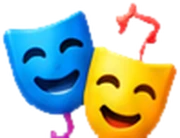
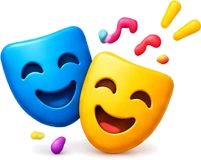
Aperçu (non publié) : icônes en haute définition (moments, mercredi, pause du midi)
Claude-Session: https://claude.ai/code/session_01SjcCAedYTceXdKHCvfHWU6

diff --git a/familles.html b/familles.html
@@ -5,12 +5,12 @@
 <meta name="viewport" content="width=device-width, initial-scale=1, viewport-fit=cover">
 <title>Espace familles · Ma parole compte !</title>
 <meta name="theme-color" content="#EAF2F4">
-<link rel="manifest" href="manifest.json?v=20261111r">
+<link rel="manifest" href="manifest.json?v=20261111s">
 <link rel="icon" href="favicon-v2.png" type="image/png">
 <link rel="apple-touch-icon" href="apple-touch-icon-v2.png">
 <link rel="preconnect" href="https://fonts.googleapis.com">
 <link rel="stylesheet" href="https://fonts.googleapis.com/css2?family=Baloo+2:wght@500;700;800&family=Andika:wght@400;700&display=swap">
-<link rel="stylesheet" href="style.css?v=20261111r0261111m">
+<link rel="stylesheet" href="style.css?v=20261111s0261111m">
 </head>
 <body class="fam">
 <div class="wrap">
@@ -22,9 +22,9 @@
   <p class="muted fam-foot">Vos réponses sont anonymes, sauf si vous laissez vos coordonnées pour avoir une réponse. Elles sont lues uniquement par l'équipe d'animation, servent à améliorer l'accueil des enfants, et sont effacées au bout de 13 mois (vos coordonnées au bout de 3 mois). Pour toute question, ou pour faire effacer une réponse, adressez-vous à la direction du centre.</p>
 </div>
 <div class="toast" id="toast" hidden></div>
-<script src="config.js?v=20261111r0261111m"></script>
-<script src="familles-data.js?v=20261111r0261111m"></script>
-<script src="vendor/supabase.js?v=20261111r0261111m"></script>
-<script src="familles.js?v=20261111r0261111m"></script>
+<script src="config.js?v=20261111s0261111m"></script>
+<script src="familles-data.js?v=20261111s0261111m"></script>
+<script src="vendor/supabase.js?v=20261111s0261111m"></script>
+<script src="familles.js?v=20261111s0261111m"></script>
 </body>
 </html>

diff --git a/index.html b/index.html
@@ -5,13 +5,13 @@
 <meta name="viewport" content="width=device-width, initial-scale=1, viewport-fit=cover">
 <title>Ma parole compte !</title>
 <meta name="theme-color" content="#EAF2F4">
-<link rel="manifest" href="manifest.json?v=20261111r">
+<link rel="manifest" href="manifest.json?v=20261111s">
 <link rel="icon" href="favicon-v2.png" type="image/png">
 <link rel="apple-touch-icon" href="apple-touch-icon-v2.png">
 <meta name="apple-mobile-web-app-capable" content="yes">
 <link rel="preconnect" href="https://fonts.googleapis.com">
 <link rel="stylesheet" href="https://fonts.googleapis.com/css2?family=Baloo+2:wght@500;700;800&family=Andika:wght@400;700&display=swap">
-<link rel="stylesheet" href="style.css?v=20261111r0261111m">
+<link rel="stylesheet" href="style.css?v=20261111s0261111m">
 </head>
 <body>
 <div class="wrap">
@@ -26,10 +26,10 @@
   <main id="app" aria-live="polite"></main>
 </div>
 <div class="toast" id="toast" hidden></div>
-<script src="config.js?v=20261111r0261111m"></script>
-<script src="familles-data.js?v=20261111r0261111m"></script>
-<script src="vendor/supabase.js?v=20261111r0261111m"></script>
-<script src="vendor/qrcode.js?v=20261111r0261111m"></script>
-<script src="app.js?v=20261111r0261111m"></script>
+<script src="config.js?v=20261111s0261111m"></script>
+<script src="familles-data.js?v=20261111s0261111m"></script>
+<script src="vendor/supabase.js?v=20261111s0261111m"></script>
+<script src="vendor/qrcode.js?v=20261111s0261111m"></script>
+<script src="app.js?v=20261111s0261111m"></script>
 </body>
 </html>

diff --git a/app.js b/app.js
@@ -44,8 +44,8 @@ const emoById=id=>EMOS.find(e=>e[0]===id)||[id,"❔",id,"#eee"];
 const CAUSES=[["copains","🤝","Les copains"],["jeu","🎲","Un jeu"],["activite","🎨","Une activité"],["cantine","🍽","La cantine"],["ecole","🏫","L'école"],
   ["maison","🏠","La maison"],["adulte","🧑","Un adulte"],["sais","🤷","Je ne sais pas"],["autre","➕","Autre chose"]];
 /* Icônes illustrées des activités (img/act/) ; sinon l'émoticône. */
-const ACT_IMG={peri:{lego:"lego",pate:"pate",perles:"perles",devoirs:"devoirs",dinette:"dinette",jeux:"jeux",dessin:"dessin",lecture:"biblio",ballon:"foot",calme:"calme",musique:"chant",dehors:"sport"},
-  mer:{piscine:"piscine",sortie:"sortie",cinema:"cinema",musee:"musee",cuisine:"cuisine",bricolage:"bricolage",grandjeu:"grandjeu",sport:"sport",
+const ACT_IMG={peri:{lego:"lego",pate:"pate",perles:"perles",devoirs:"devoirs",dinette:"dinette",jeux:"jeux",dessin:"dessin",lecture:"biblio",ballon:"foot",calme:"calme",musique:"chant",dehors:"corde"},
+  mer:{piscine:"piscine",sortie:"sortie",cinema:"cinema",musee:"musee",cuisine:"cuisine",bricolage:"bricolage",grandjeu:"grandjeu",sport:"foot",
     danse:"danse",theatre:"theatre",jardin:"jardin",sciences:"sciences",peinture:"peinture",chasse:"chasse",velo:"velo",spectacle:"spectacle"},
   midi:{foot:"foot",corde:"corde",loup:"loup",cache:"cache",elastique:"elastique",biblio:"biblio",calme:"calme",dessin:"dessin",jeux:"jeux",basket:"basket",chant:"chant",relax:"relax"}};
 function actIcon(a){
